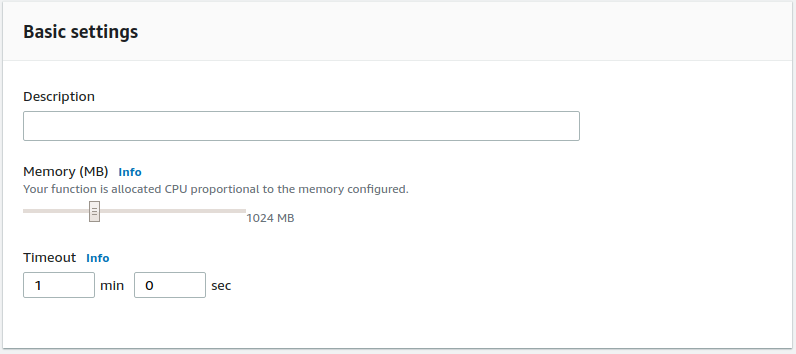
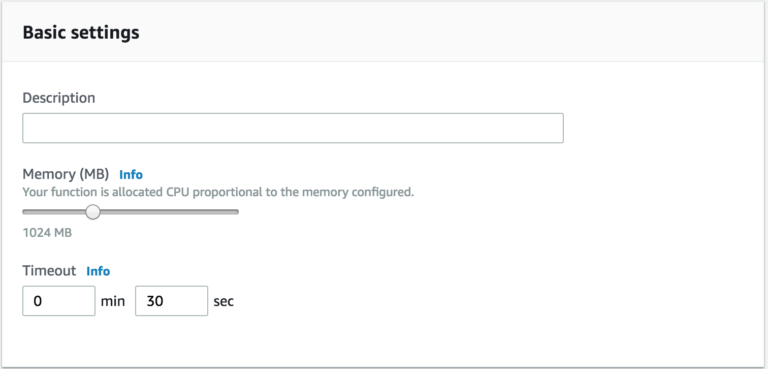
Images links fixed

diff --git a/integrations/aws/vpc/README.rst b/integrations/aws/vpc/README.rst
@@ -1,7 +1,7 @@
 AWS VPC Flow Logs
 =================
 
-.. image:: images/amazon-vpc.png
+.. image:: images/amazon-vpc.jpg
    :height: 50px
    :width: 100px
    :scale: 50 %
@@ -46,7 +46,7 @@ Setup
 .. image:: images/4.png
    :alt: Lambda trigger setup
 
-6. Increase ``Memory`` to ``1024MB`` and ``Timeout`` to ``1 min``.
+6. Increase ``Memory`` to ``1024MB`` and ``Timeout`` to ``30 sec``.
 
 .. image:: images/5.png
    :alt: Lambda basic settings
